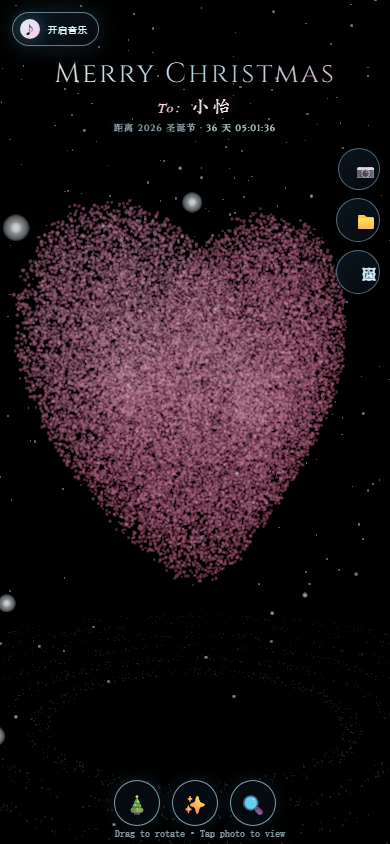
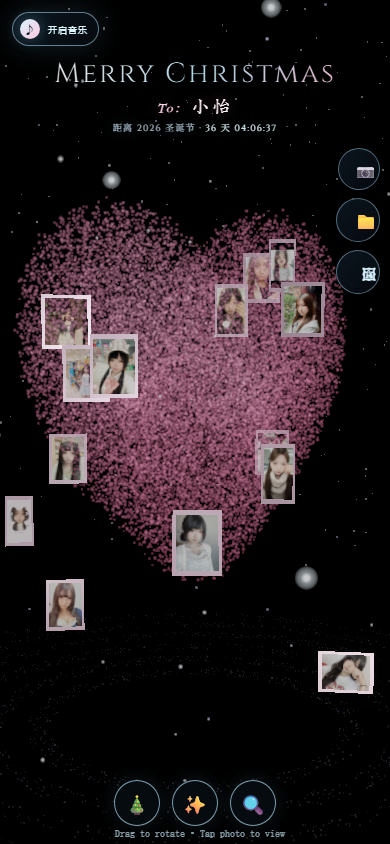
feat: add Xiaoyi photo collection

diff --git a/index.html b/index.html
@@ -603,7 +603,22 @@
             preload: {
                 autoScanLocal: false,
                 scanCount: 0,
-                images: []
+                images: [
+                    "./photos/xiaoyi-01.jpg",
+                    "./photos/xiaoyi-02.jpg",
+                    "./photos/xiaoyi-03.jpg",
+                    "./photos/xiaoyi-04.jpg",
+                    "./photos/xiaoyi-05.jpg",
+                    "./photos/xiaoyi-06.jpg",
+                    "./photos/xiaoyi-07.jpg",
+                    "./photos/xiaoyi-08.jpg",
+                    "./photos/xiaoyi-09.jpg",
+                    "./photos/xiaoyi-10.jpg",
+                    "./photos/xiaoyi-11.jpg",
+                    "./photos/xiaoyi-12.jpg",
+                    "./photos/xiaoyi-13.jpg",
+                    "./photos/xiaoyi-14.jpg"
+                ]
             }
         };
 
@@ -951,19 +966,16 @@
                 }
                 const lerpSpeed = (mode === 'FOCUS' && this.mesh === focusTargetMesh) ? 5.0 : 2.0;
                 this.mesh.position.lerp(target, lerpSpeed * dt);
-                if (mode === 'SCATTER') {
+                if (this.type === 'PHOTO') {
+                    this.mesh.lookAt(camera.position);
+                } else if (mode === 'SCATTER') {
                     this.mesh.rotation.x += this.spinSpeed.x * dt;
                     this.mesh.rotation.y += this.spinSpeed.y * dt;
                     this.mesh.rotation.z += this.spinSpeed.z * dt;
                 } else if (mode === 'TREE') {
-                    if (this.type === 'PHOTO') {
-                        this.mesh.lookAt(0, this.mesh.position.y, 0);
-                        this.mesh.rotateY(Math.PI);
-                    } else {
-                        this.mesh.rotation.x = THREE.MathUtils.lerp(this.mesh.rotation.x, 0, dt);
-                        this.mesh.rotation.z = THREE.MathUtils.lerp(this.mesh.rotation.z, 0, dt);
-                        this.mesh.rotation.y += 0.5 * dt;
-                    }
+                    this.mesh.rotation.x = THREE.MathUtils.lerp(this.mesh.rotation.x, 0, dt);
+                    this.mesh.rotation.z = THREE.MathUtils.lerp(this.mesh.rotation.z, 0, dt);
+                    this.mesh.rotation.y += 0.5 * dt;
                 }
                 if (mode === 'FOCUS' && this.mesh === focusTargetMesh) this.mesh.lookAt(camera.position);
                 let s = this.baseScale;
@@ -1399,7 +1411,7 @@
             const group = new THREE.Group();
             group.add(frame); group.add(photo);
             frame.scale.set(width/1.2, height/1.2, 1);
-            const s = 0.8; group.scale.set(s,s,s);
+            const s = 0.96; group.scale.set(s,s,s);
             photoMeshGroup.add(group);
             particleSystem.push(new Particle(group, 'PHOTO', false));
             updatePhotoLayout();
@@ -1429,6 +1441,20 @@
 // -->
         function loadPredefinedImages() {
             const loader = new THREE.TextureLoader();
+            CONFIG.preload.images.forEach((path) => {
+                loader.load(
+                    path,
+                    (texture) => {
+                        texture.colorSpace = THREE.SRGBColorSpace;
+                        texture.anisotropy = renderer.capabilities.getMaxAnisotropy();
+                        addPhotoToScene(texture);
+                    },
+                    undefined,
+                    (error) => {
+                        console.warn("Photo could not be loaded:", path, error);
+                    }
+                );
+            });
             if (CONFIG.preload.autoScanLocal) {
                 for (let i = 1; i <= CONFIG.preload.scanCount; i++) {
                     const pathJpg = `./images/(${i}).jpg`;

diff --git a/README.md b/README.md
@@ -22,6 +22,7 @@
 - `index.html`：网页主文件
 - `heart-density.js`：爱心粒子轮廓数据
 - `audio/christmas.mp3`：背景音乐
+- `photos/`：小怡的 14 张预置照片
 - `preview.png`、`preview-heart.png`：预览图
 
 页面中的全部交互与粒子效果在浏览器本地运行。
